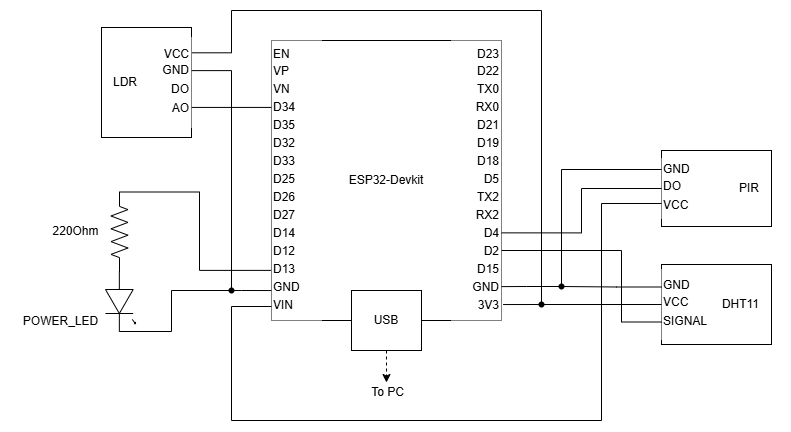
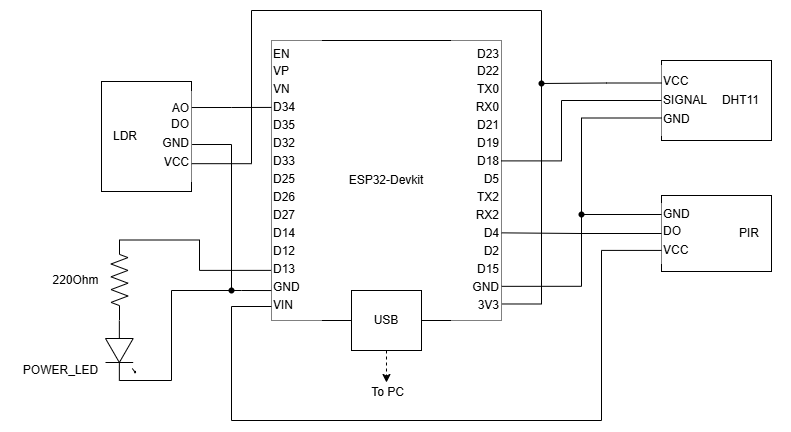
Fixed DHT pinout, added initial logic

diff --git a/app/src/main.c b/app/src/main.c
@@ -5,41 +5,77 @@
 
 // Settings
 static const int32_t sleep_time_ms = 1000;
-static const struct gpio_dt_spec power_led = GPIO_DT_SPEC_GET(DT_ALIAS(power_led), gpios);
-static const struct device* temp_humidity_sensor = DEVICE_DT_GET(DT_ALIAS(temp_humidity_sensor));
 
 int main(void)
 {
-	int ret;
-	int state = 0;
+    const struct gpio_dt_spec power_led = GPIO_DT_SPEC_GET(DT_ALIAS(power_led), gpios);
+    const struct device* temp_humidity_sensor = DEVICE_DT_GET(DT_ALIAS(temp_humidity_sensor));
+
+	int led_state = 0;
+	struct sensor_value temp_value;
+	struct sensor_value humidity_value;
 
 	// Make sure that the GPIO was initialized
-	if (!gpio_is_ready_dt(&power_led)) {
+	if (!gpio_is_ready_dt(&power_led))
+	{
+		printk("Error initializing LED.\n");
 		return 0;
 	}
 
 	// Set the GPIO as output
-	ret = gpio_pin_configure_dt(&power_led, GPIO_OUTPUT);
-	if (ret < 0) {
+	if (gpio_pin_configure_dt(&power_led, GPIO_OUTPUT) < 0)
+	{
+		printk("Error configuring LED pin.\n");
 		return 0;
 	}
 
-	// Do forever
-	while (1) {
+	// Initialize the temperature and humidity sensor
+	if (!device_is_ready(temp_humidity_sensor))
+	{
+		printk("Error initializing temperature sensor.\n");
+		return 0;
+	}
 
-		// Change the state of the pin and print
-		state = !state;
-		printk("LED state: %d\r\n", state);
-		
-		// Set pin state
-		ret = gpio_pin_set_dt(&power_led, state);
-		if (ret < 0) {
-			return 0;
+	while (1)
+	{
+		// Toggle the LED
+		led_state = !led_state;
+		if (gpio_pin_set_dt(&power_led, led_state) < 0)
+		{
+			printk("Error setting GPIO pin\n");
 		}
+
+		// Read temperature and humidity
+        get_temperature_and_humidity(temp_humidity_sensor, &temp_value, &humidity_value);
+        printk("Temperature: %d.%06d C, Humidity: %d.%06d %%\n",
+               temp_value.val1, temp_value.val2,
+               humidity_value.val1, humidity_value.val2);
 
 		// Sleep
 		k_msleep(sleep_time_ms);
 	}
 
 	return 0;
+}
+
+void get_temperature_and_humidity(struct device* pSensor, struct sensor_value* pTempValue, struct sensor_value* pHumidityValue)
+{
+	// Fetch new data from the sensor
+	int result = sensor_sample_fetch(pSensor);
+	if (result < 0)
+	{
+		printk("Error fetching sensor data: %d\n", result);
+	}
+
+	// Read temperature and humidity channels
+	result = sensor_channel_get(pSensor, SENSOR_CHAN_AMBIENT_TEMP, pTempValue);
+	if (result < 0)
+	{
+		printk("Error reading temperature: %d\n", result);
+	}
+    result = sensor_channel_get(pSensor, SENSOR_CHAN_HUMIDITY, pHumidityValue);
+    if (result < 0)
+    {
+        printk("Error reading humidity: %d\n", result);
+    }
 }

diff --git a/README.md b/README.md
@@ -11,7 +11,17 @@ This repository contains the code and documentation for a multi-sensor to be use
 This project uses the Zephyr framework.
 
 ### Building the Project
-Using VSCode's Dev Containers extension, open the project in the supplied dev container. Once inside the container, run ```run.sh``` to build the code, flash the device, and start a serial monitor.
+Using VSCode's Dev Containers extension, open the project in the supplied dev container. 
+
+For the USB device to be visible inside the container, [usbipd](https://github.com/dorssel/usbipd-win) needs to be used. Install the tool, and in a Windows terminal enter these commands:
+```
+usbipd list
+usbipd bind --busid=<BUSID>
+usbipd attach --wsl --busid=<BUSID>
+```
+<BUSID> is found using the first command. The attach command needs to be run each time the ESP32 is plugged into the computer. Once this is done, run ```ls -l /dev/ttyUSB*``` in the container to verify there is a visible port.
+
+The script ```run.sh``` is provided to build the code, flash the device, and start a serial monitor.
 
 ## Future Improvements
 - Use collected data to perform automated tasks (turn lights on/off, open/close shades, turn fan on/off, etc.).
